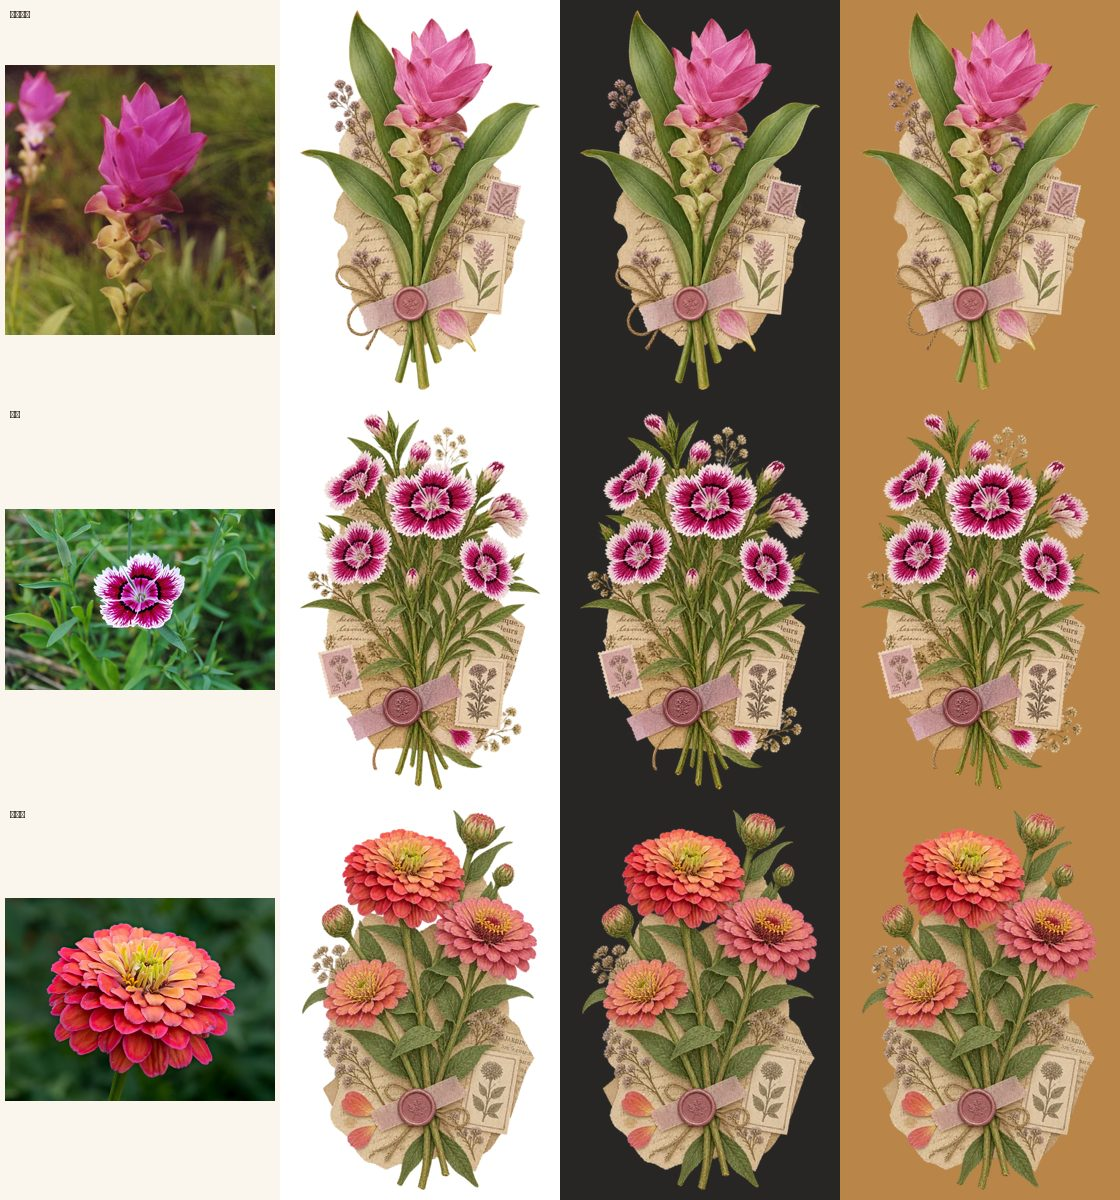
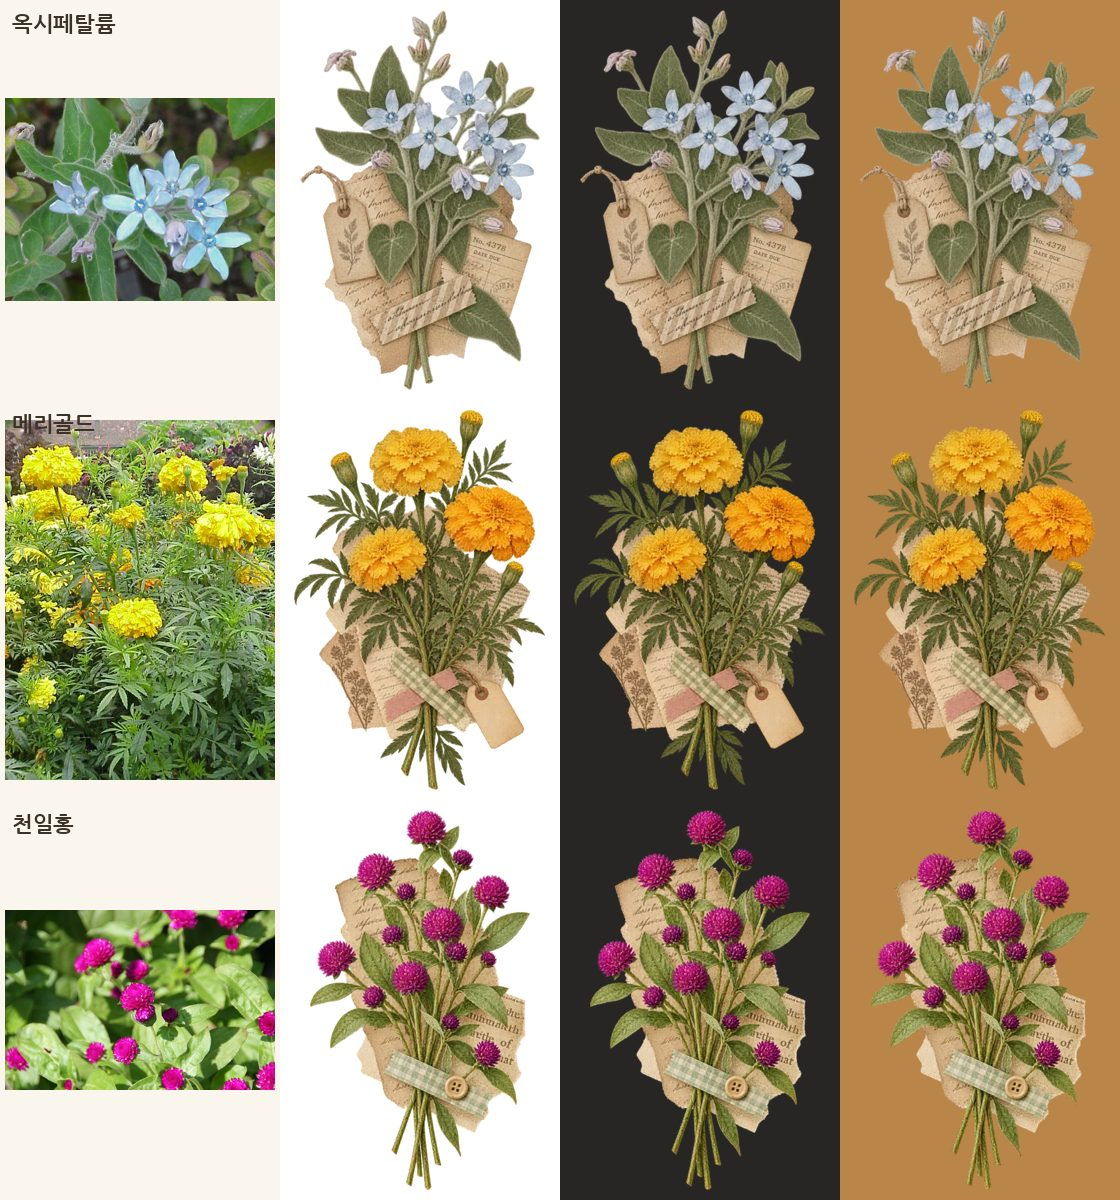
꽃 그림 자동 제작 2026-10-28

diff --git a/preview/index.html b/preview/index.html
@@ -446,10 +446,10 @@ const favIndexKeys=()=>[...new Set([...FAV].map(favKey))];
 const SEASON_SITE_URL='';
 // 등락: 화살표 + 색 + 숫자 (색만으로 뜻을 전하지 않음)
 const dlt=x=>x==null||!isFinite(x)?'<span class="d flat">—</span>':`<span class="d ${sg(x)}">${x>0?'▲':x<0?'▼':'–'} ${Math.abs(x*100).toFixed(1)}%</span>`;
-const IMG_V='202610280924'; // 그림을 바꾸면 이 값을 바꿔서 휴대폰에 남은 옛 그림 대신 새 그림을 받게 합니다
+const IMG_V='202610280930'; // 그림을 바꾸면 이 값을 바꿔서 휴대폰에 남은 옛 그림 대신 새 그림을 받게 합니다
 const STK=(location.pathname.includes('/preview/')?'../':'')+'img/';
 // 꽃 그림: img/flowers/<원자료 품목명>.webp (파일 이름 = 원자료 품목명)
-const FLOWER_IMG=new Set(["과꽃", "안시리움", "클레마티스", "맨드라미", "호접란", "공작초", "국화_대국", "금꿩의다리", "고사리", "장미", "국화", "카네이션", "안개", "거베라", "리시안사스", "백합", "수국", "알스트메리아", "칼라", "스타티스", "유칼립투스", "메리골드", "스톡크", "홍가시", "튜립", "라넌큘러스", "프리지아", "델피니움", "코스모스", "작약", "해바라기", "다알리아", "스위트피", "금어초", "아이리스", "글라디올러스", "왁스플라워", "솔리다고", "하이페리콤", "루스커스", "몬스테라", "쿠루쿠마", "석죽", "백일홍"]);
+const FLOWER_IMG=new Set(["과꽃", "안시리움", "클레마티스", "맨드라미", "호접란", "공작초", "국화_대국", "금꿩의다리", "고사리", "장미", "국화", "카네이션", "안개", "거베라", "리시안사스", "백합", "수국", "알스트메리아", "칼라", "스타티스", "유칼립투스", "메리골드", "스톡크", "홍가시", "튜립", "라넌큘러스", "프리지아", "델피니움", "코스모스", "작약", "해바라기", "다알리아", "스위트피", "금어초", "아이리스", "글라디올러스", "왁스플라워", "솔리다고", "하이페리콤", "루스커스", "몬스테라", "쿠루쿠마", "석죽", "백일홍", "옥시페탈륨", "천일홍"]);
 // 국화 중 장례식장용 하얀 대국(백선·백중·마코토/마카토)은 소국과 다른 그림을 씁니다
 const DAEGUK=/백선|백중|마코토|마카토|대국/;
 function stickerOf(name){
